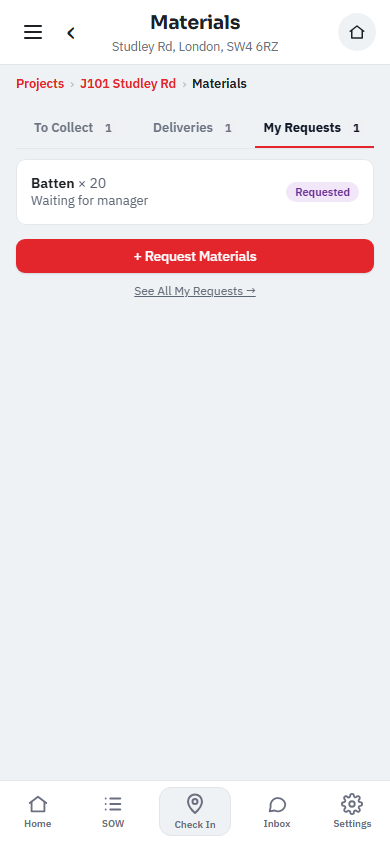
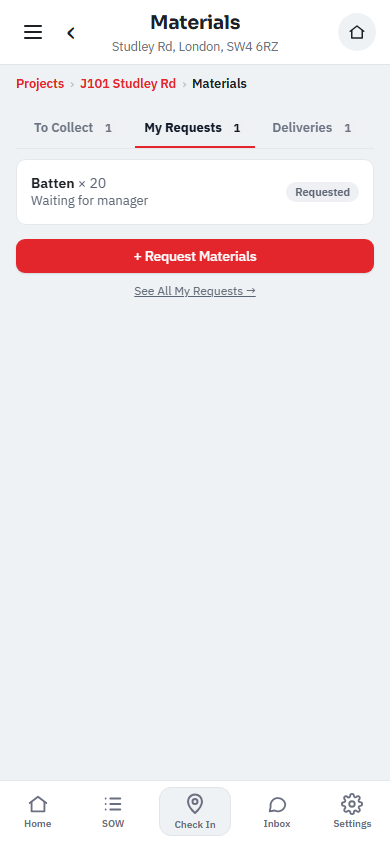
Operative Materials: My Requests is the first tab, and To Collect jumps to the front when there is something to collect (Andy, 19 Nov)
Claude-Session: https://claude.ai/code/session_012KhfNvBEbifMJmPdX7yZfp

Changed region(s): [[0.6769, 0.1232, 0.9231, 0.1848], [0.3692, 0.1232, 0.6154, 0.1848], [0.7692, 0.2156, 0.8923, 0.2464]]

diff --git a/tools/test-harness/opmat19-check.js b/tools/test-harness/opmat19-check.js
@@ -1,5 +1,6 @@
 // An operative's Materials on a job, in Finance-style tabs (Andy, 19 Nov 2026: "Change this layout a little more finance
-// tab style"): To Collect, Deliveries and My Requests, each with its count, opening on the first with something in it.
+// tab style"), each with its count. My Requests is first unless there is something to collect, when To Collect jumps to
+// the front (Andy, 19 Nov: "if nothing to collect leave as second tab"); it opens on the first tab.
 // Phone. Fake database. node opmat19-check.js
 const {chromium, makeContext, S1} = require('./harness');
 const path = require('path');
@@ -28,7 +29,7 @@ const check = (ok, what) => { console.log((ok ? 'PASS ' : 'FAIL ') + what); if (
   const tabs = async () => page.evaluate(() => [...document.querySelectorAll('[role="tab"]')].filter((e) => e.getBoundingClientRect().width).map((e) => [e.innerText.replace(/\s+/g, ' ').trim(), String(getComputedStyle(e).borderBottomColor !== 'rgba(0, 0, 0, 0)' && getComputedStyle(e).borderBottomColor !== 'transparent')]));
   const body = () => page.evaluate(() => document.body.innerText);
   let tb = await tabs();
-  check(tb.length === 3 && /^To Collect 1/.test(tb[0][0]) && /^Deliveries 1/.test(tb[1][0]) && /^My Requests 1/.test(tb[2][0]), `three tabs with counts (${tb.map((x) => x[0]).join(' | ')})`);
+  check(tb.length === 3 && /^To Collect 1/.test(tb[0][0]) && /^My Requests 1/.test(tb[1][0]) && /^Deliveries 1/.test(tb[2][0]), `something to collect: To Collect first, then My Requests, Deliveries (${tb.map((x) => x[0]).join(' | ')})`);
   let t = await body();
   check(tb[0][1] === 'true' && /Lead flashing/.test(t) && !/Slates/.test(t), 'opens on To Collect, with only the collection list');
   const box = await page.evaluate(() => [...document.querySelectorAll('[role="tab"]')].filter((e) => e.getBoundingClientRect().width).map((e) => { const r = e.getBoundingClientRect(); return [Math.round(r.top), Math.round(r.right)]; }));
@@ -42,13 +43,15 @@ const check = (ok, what) => { console.log((ok ? 'PASS ' : 'FAIL ') + what); if (
   t = await body();
   check(/Batten/.test(t) && /Waiting for manager/.test(t) && /\+ Request Materials/.test(t) && /See All My Requests/.test(t), 'My Requests: what is waiting, Request Materials, See All');
   await page.screenshot({path: path.join(__dirname, 'shots', 'opmat19-requests.png')});
-  // Nothing to collect: it opens on Deliveries.
+  // Nothing to collect: My Requests first, To Collect second, and it opens on My Requests.
   db.material_required_items = [];
   await page.goto(`${B}/home`); await page.waitForTimeout(2500);
   await page.evaluate(() => { try { Object.keys(localStorage).filter((k) => /opMaterials/.test(k)).forEach((k) => localStorage.removeItem(k)); } catch (e) { /* none */ } });
   await page.goto(`${B}/sites/${S1}/materials`); await page.waitForTimeout(5000);
   tb = await tabs();
-  check(tb[1] && tb[1][1] === 'true', `nothing to collect: it opens on Deliveries (${tb.map((x) => x.join(':')).join(' | ')})`);
+  check(tb.length === 3 && /^My Requests 1/.test(tb[0][0]) && /^To Collect/.test(tb[1][0]) && /^Deliveries 1/.test(tb[2][0]), `nothing to collect: My Requests first, To Collect second (${tb.map((x) => x[0]).join(' | ')})`);
+  check(tb[0][1] === 'true' && /Batten/.test(await body()), 'and it opens on My Requests');
+  await page.screenshot({path: path.join(__dirname, 'shots', 'opmat19-nothing-to-collect.png')});
   check(!errs.length, `no page errors ${errs.slice(0, 2).join(' | ')}`);
   await browser.close();
 })();

diff --git a/app-native/src/app/(app)/sites/[id]/materials/index.tsx b/app-native/src/app/(app)/sites/[id]/materials/index.tsx
@@ -134,17 +134,23 @@ function OperativeMaterials({ siteId, vis }: { siteId: string; vis: Parameters<t
   const showPlant = canSeeMatTile(vis, 'plant', me.role) || plantMine > 0;
   const showExp = canSeeMatTile(vis, 'expenses', me.role);
   const toggle = (x: string) => { const n = new Set(sel); if (n.has(x)) n.delete(x); else n.add(x); setSel(n); };
-  // Finance-style tabs (Andy, 19 Nov 2026: "Change this layout a little more finance tab style"): Collect, Deliveries and
-  // Requests, each with its count; it opens on the first with something in it. Plant and Expenses sit under every tab.
+  // Finance-style tabs (Andy, 19 Nov 2026: "Change this layout a little more finance tab style"), each with its count.
+  // My Requests comes first, unless there is something to collect: then To Collect jumps to the front (Andy, 19 Nov:
+  // "if nothing to collect leave as second tab (so it could chop and change mid project)"). It opens on the first tab.
+  // Plant and Expenses sit under every tab.
   const comingN = (data?.coming ?? []).filter((m) => !m.grn).length, mineN = (data?.mine ?? []).length;
-  const cur = tab ?? (openIds.length ? 'collect' : comingN ? 'coming' : mineN ? 'mine' : 'collect');
+  const collectFirst = openIds.length > 0;
+  const tabItems: [string, string, number][] = collectFirst
+    ? [['collect', 'To Collect', openIds.length], ['mine', 'My Requests', mineN], ['coming', 'Deliveries', comingN]]
+    : [['mine', 'My Requests', mineN], ['collect', 'To Collect', 0], ['coming', 'Deliveries', comingN]];
+  const cur = tab ?? (collectFirst ? 'collect' : 'mine');
 
   return (
     <ScrollView contentContainerStyle={page(720)}
       refreshControl={<RefreshControl refreshing={isRefetching} onRefresh={() => { void refetch(); }} />}>
       {isLoading ? <Muted>Loading…</Muted> : (
         <>
-          <FinTabs even value={cur} onChange={(k) => setTab(k as typeof cur)} items={[['collect', 'To Collect', openIds.length], ['coming', 'Deliveries', comingN], ['mine', 'My Requests', mineN]]} />
+          <FinTabs even value={cur} onChange={(k) => setTab(k as typeof cur)} items={tabItems} />
           {cur === 'collect' && (<>
           {openIds.length > 1 && picked.length > 0 && (
             <Pressable onPress={() => setSel(picked.length >= openIds.length ? new Set() : new Set(openIds))} style={{ marginBottom: 8 }}>
